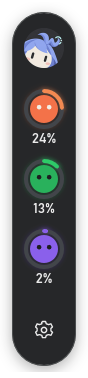
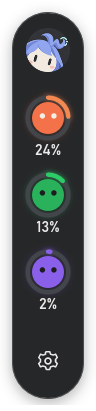
feat: resize Wacu capsule presets and migrate legacy sizes

diff --git a/src/state.rs b/src/state.rs
@@ -16,10 +16,34 @@ pub struct Preferences {
     pub shown: [bool; 3],
     pub animations_enabled: bool,
     pub opacity_percent: u8,
-    // 0 = compact, 1 = standard (default), 2 = spacious
+    // 0 = compact (former standard), 1 = standard (new midpoint), 2 = spacious.
     pub capsule_size: u8,
+    // Old files without a version used index 1 for the 88px size.
+    #[serde(default = "legacy_size_preset_version")]
+    pub size_preset_version: u8,
     pub edge_hide: bool,
     pub dock_left: bool,
+}
+
+const CURRENT_SIZE_PRESET_VERSION: u8 = 2;
+
+fn legacy_size_preset_version() -> u8 {
+    1
+}
+
+impl Preferences {
+    fn migrate_size_preset(&mut self) {
+        if self.size_preset_version < CURRENT_SIZE_PRESET_VERSION {
+            // The old 88px standard is the new compact; old spacious remains
+            // spacious. Retired 72px compact has no identical preset.
+            self.capsule_size = match self.capsule_size {
+                0 | 1 => 0,
+                _ => 2,
+            };
+            self.size_preset_version = CURRENT_SIZE_PRESET_VERSION;
+        }
+        self.capsule_size = self.capsule_size.min(2);
+    }
 }
 
 impl Default for Preferences {
@@ -31,6 +55,7 @@ impl Default for Preferences {
             animations_enabled: true,
             opacity_percent: 95,
             capsule_size: 1,
+            size_preset_version: CURRENT_SIZE_PRESET_VERSION,
             edge_hide: false,
             dock_left: false,
         }
@@ -49,7 +74,9 @@ pub fn load() -> Preferences {
     let Ok(data) = fs::read(config_path()) else {
         return Preferences::default();
     };
-    serde_json::from_slice::<Preferences>(&data).unwrap_or_default()
+    let mut prefs = serde_json::from_slice::<Preferences>(&data).unwrap_or_default();
+    prefs.migrate_size_preset();
+    prefs
 }
 
 pub fn save(prefs: &Preferences) -> Result<(), String> {
@@ -74,8 +101,33 @@ mod tests {
         assert!(prefs.animations_enabled);
         assert_eq!(prefs.opacity_percent, 95);
         assert_eq!(prefs.capsule_size, 1);
+        assert_eq!(prefs.size_preset_version, 1);
         assert!(!prefs.edge_hide);
         assert!(!prefs.dock_left);
+    }
+
+    #[test]
+    fn old_standard_preset_preserves_exact_display_size() {
+        let mut legacy: Preferences =
+            serde_json::from_str(r#"{"capsule_size":1,"mode":"pinned"}"#).unwrap();
+        assert_eq!(legacy.size_preset_version, 1);
+        legacy.migrate_size_preset();
+        assert_eq!(legacy.capsule_size, 0); // old standard 88px is now compact
+        assert_eq!(legacy.size_preset_version, CURRENT_SIZE_PRESET_VERSION);
+        let mut reloaded: Preferences =
+            serde_json::from_str(&serde_json::to_string(&legacy).unwrap()).unwrap();
+        reloaded.migrate_size_preset();
+        assert_eq!(reloaded.capsule_size, 0); // idempotent
+    }
+
+    #[test]
+    fn old_spacious_stays_spacious_and_new_default_is_midpoint() {
+        let mut legacy: Preferences = serde_json::from_str(r#"{"capsule_size":2}"#).unwrap();
+        legacy.migrate_size_preset();
+        assert_eq!(legacy.capsule_size, 2);
+        let fresh = Preferences::default();
+        assert_eq!(fresh.capsule_size, 1);
+        assert_eq!(fresh.size_preset_version, CURRENT_SIZE_PRESET_VERSION);
     }
 
     #[test]
@@ -91,6 +143,7 @@ mod tests {
         assert!(!restored.animations_enabled);
         assert_eq!(restored.opacity_percent, 72);
         assert_eq!(restored.capsule_size, 2);
+        assert_eq!(restored.size_preset_version, CURRENT_SIZE_PRESET_VERSION);
         assert!(restored.edge_hide);
         assert!(restored.dock_left);
         assert_eq!(restored.mode, Mode::Popup);

diff --git a/README.md b/README.md
@@ -9,7 +9,7 @@ Windows 轻量 AI 用量守望工具。**现已完全重写为 Rust + Slint + Wi
 - Windows 系统托盘左键打开/收起黑色纵向胶囊；右键可进入设置、切换模式或退出。
 - 程序启动先显示悬浮窗；弹出模式约 3 秒后收起，常驻模式保持显示。两种模式均可按住顶部 Logo 拖动，松开后立即保存位置。
 - EXE 文件、窗口与托盘统一使用品牌 Logo；程序内嵌 16–256px 多尺寸 Windows 图标。
-- 胶囊顶部显示品牌 Logo，下方排列 Claude Code、Codex、WorkBuddy，以双眼角色、带背景轨道的进度环和已用百分比显示演示用量；设置按钮与服务区分开留白。默认主体宽 64px、进度区域 50px，外观页可选择紧凑／标准／宽松三档并记住偏好。
+- 胶囊顶部显示品牌 Logo，下方排列 Claude Code、Codex、WorkBuddy，以双眼角色、带背景轨道的进度环和已用百分比显示演示用量；设置按钮与服务区分开留白。默认标准档主体宽 72px、圆环 56px；外观页可选择紧凑／标准／宽松三档（窗口宽分别为 88／96／104px）并记住偏好，旧标准升级后自动对应新的紧凑档。
 - 详情与设置采用紧凑排版：快览 296×422px、完整详情 296×612px、设置 460×600px；正文 13–14px、百分比 32px，使用石墨色渐变、圆角控件和柔和阴影。
 - 可在“点击弹出”与“常驻悬浮”之间切换，两种模式共用同一桌面位置；点击托盘后在常驻位置展开。拖动位置和服务显示开关将保存在本地。胶囊高度随启用服务数量自动调整，关闭服务后其他项目仍能正确打开详情。
 - 进度环使用 Slint 原生路径和圆头端点绘制，同色光晕使用连续高斯透明像素图；提供悬停、选中蓝色光晕与指示箭头、按下缩小反馈，所有过渡为 100–200ms，可统一关闭。

diff --git a/docs/WINDOWS_QA.md b/docs/WINDOWS_QA.md
@@ -169,6 +169,16 @@
 
 详细的尺寸、颜色和动效见 [UI 设计落地规范](UI_SPEC.md)。
 
+## 胶囊三档尺寸重定义（2026-10-11）
+
+- [x] **紧凑**改为旧“标准”：原生窗口宽 **88px**、三项服务高 **378px**；圆环 **50px**。
+- [x] **标准**改为旧标准与宽松的中间值：原生窗口宽 **96px**、三项服务高 **411px**；圆环 **56px**。
+- [x] **宽松**保持：原生窗口宽 **104px**、三项服务高 **444px**；圆环 **62px**。
+- [x] 头像、数字字号、行间距、底部齿轮按钮尺寸同步调整，不只是拉宽窗口。
+- [x] 旧标准配置加载后自动迁移为新紧凑；新安装默认新标准；重复加载已迁移的配置不会再次修改。
+- [x] 三档 Slint 原生截图及详情动画、拖动恢复、设置页均通过回归验收；用户真实配置未被修改。
+- [x] 用独立 APPDATA 配置启动 Windows Release，通过 UI Automation 实测：新默认 96×411px、旧标准迁移后 88×378px、旧宽松 104×444px；三种情况均正常启动。
+
 ## 详情窗口显示/关闭动效回归（2026-10-11）
 
 - [x] Slint 详情面板新增 175ms 淡入淡出及 6×5px 轻位移；尊重显示动画开关。
